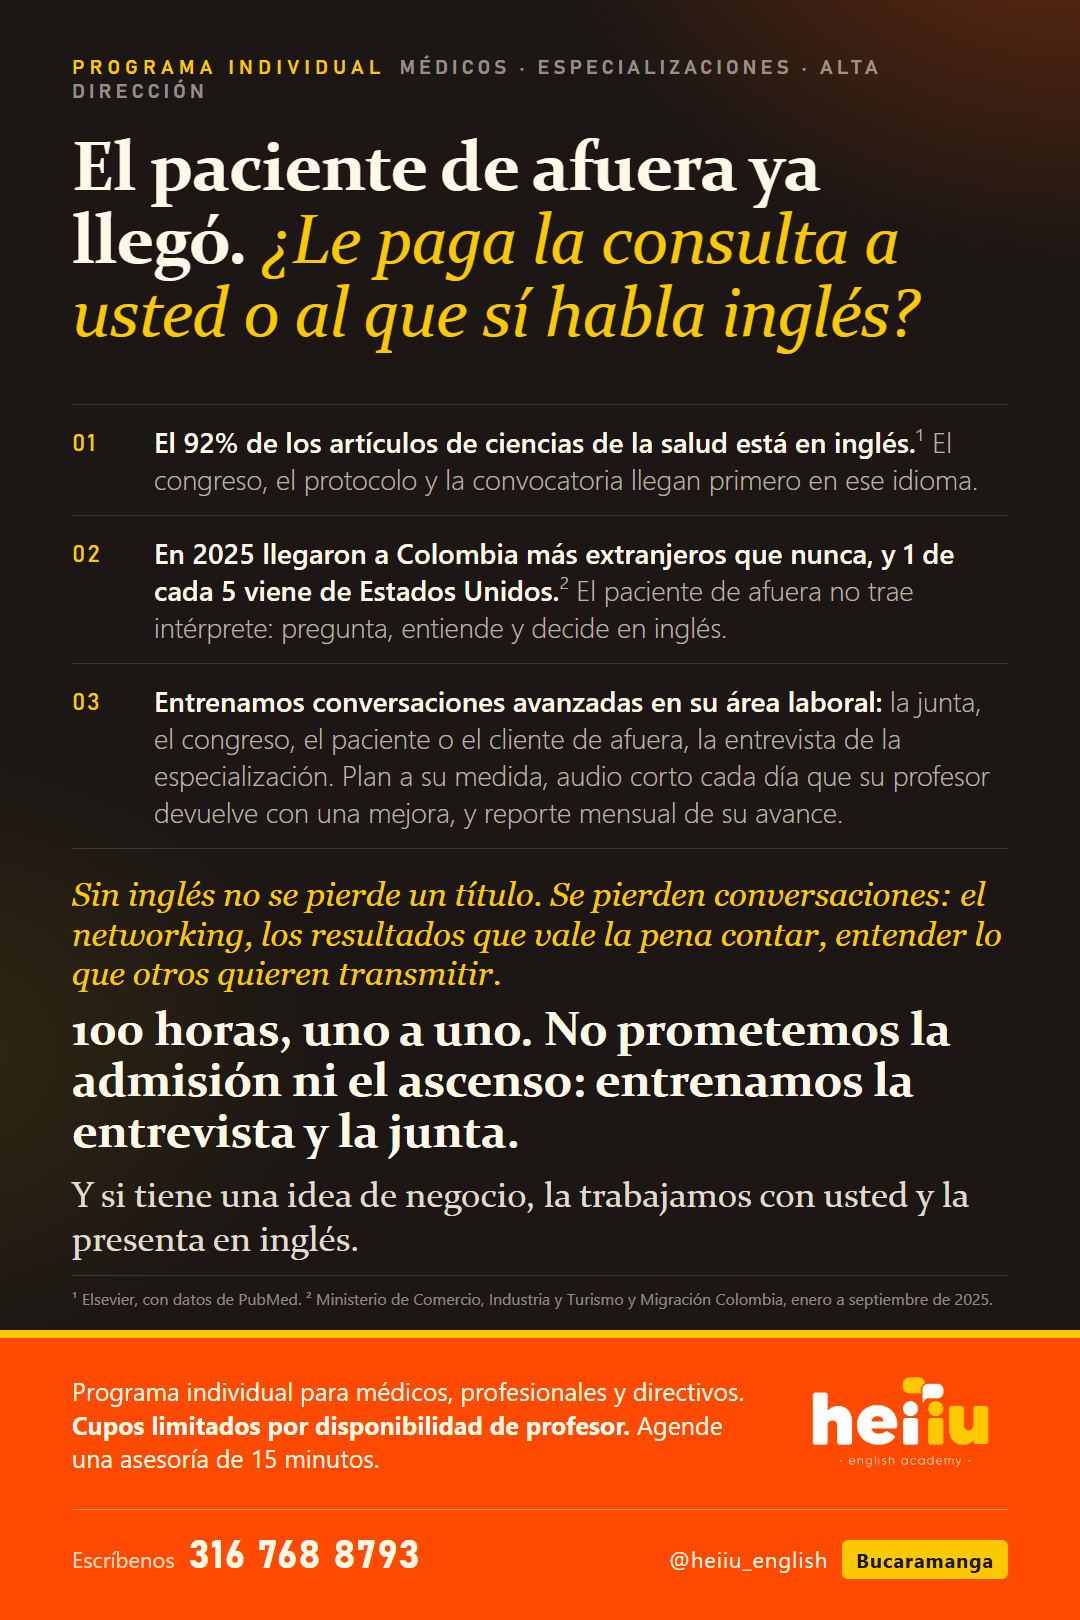
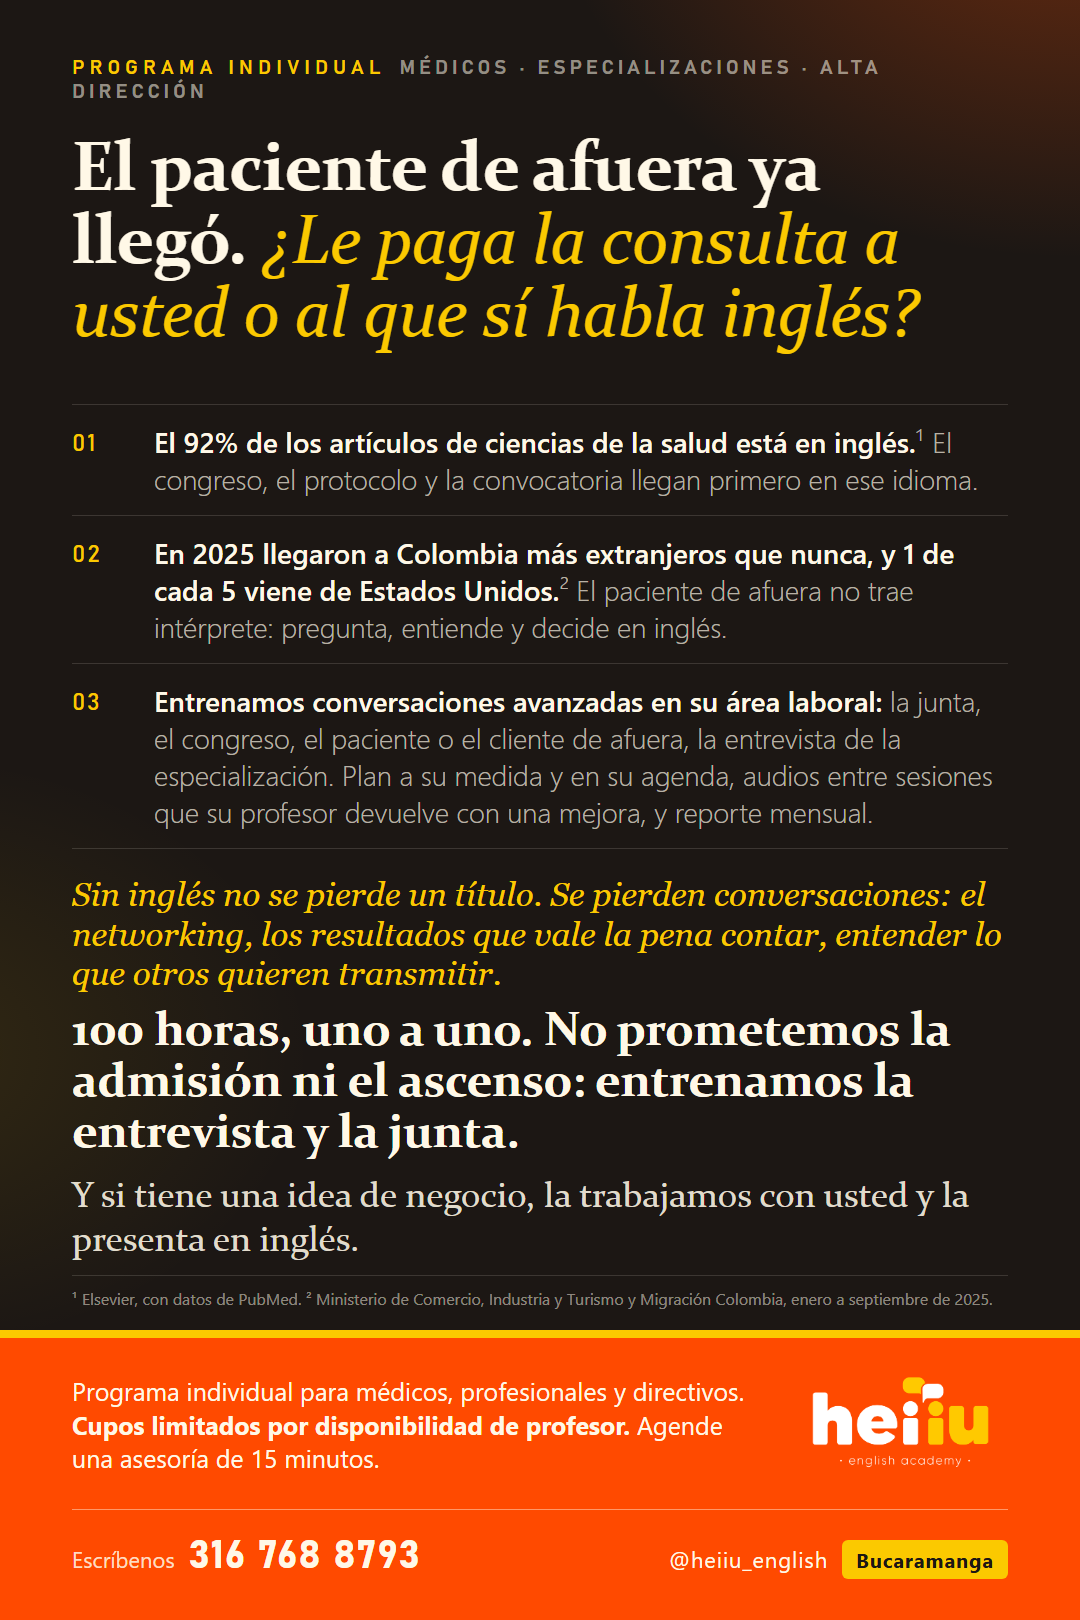
Piezas medicos: fuera el audio diario (programa individual vende flexibilidad); audios entre sesiones, el estudiante elige cuando

Changed region(s): [[0.1528, 0.463, 0.9167, 0.5247]]

diff --git a/generadores/comercial/gen_piezas_conciencia.py b/generadores/comercial/gen_piezas_conciencia.py
@@ -204,7 +204,7 @@ PIEZAS = {
         intro=('<b>Entrenamos conversaciones avanzadas en su área laboral.</b> Armamos el plan a su medida, para que la clase se enfoque en los temas de los que usted ya estaría hablando si hablara inglés: la junta, el congreso, el paciente o el cliente de afuera, '
                'la entrevista de la especialización. Usted fija los días y las horas cada semana. Antes de hablar de precios, le decimos cómo es:'),
         quote=('Nuestro objetivo es que salga hablando inglés en lo suyo. Esto es un entrenamiento, como prepararse para una maratón: desde el primer día habla, su profesor ve dónde puede mejorar y lo repetimos hasta que sale. '
-               'Por eso graba un audio corto cada día y su profesor se lo devuelve con una mejora. A cambio: <b>prueba de nivel al inicio y al final, y reporte mensual de su avance.</b> ¿Se le mide a ese ritmo?'),
+               'Entre una sesión y otra, un audio corto que su profesor le devuelve con una mejora; usted elige cuándo. A cambio: <b>prueba de nivel al inicio y al final, y reporte mensual de su avance.</b> ¿Se le mide?'),
         cite='GERENCIA · HEIIU ENGLISH ACADEMY',
         after='¿Suena exigente? Lo es, a propósito. <b>Con tres horas a la semana, el programa termina en unos ocho meses;</b> con más horas, antes. Usted decide el ritmo, no el calendario de un grupo.',
         st=[], lead='', big='', big2='',
@@ -295,7 +295,7 @@ PIEZAS = {
         h1='El paciente de afuera ya llegó. <em>¿Le paga la consulta a usted o al que sí habla inglés?</em>',
         st=[('<b>El 92% de los artículos de ciencias de la salud está en inglés.</b>¹ El congreso, el protocolo y la convocatoria llegan primero en ese idioma.'),
             ('<b>En 2025 llegaron a Colombia más extranjeros que nunca, y 1 de cada 5 viene de Estados Unidos.</b>² El paciente de afuera no trae intérprete: pregunta, entiende y decide en inglés.'),
-            ('<b>Entrenamos conversaciones avanzadas en su área laboral:</b> la junta, el congreso, el paciente o el cliente de afuera, la entrevista de la especialización. Plan a su medida, audio corto cada día que su profesor devuelve con una mejora, y reporte mensual de su avance.')],
+            ('<b>Entrenamos conversaciones avanzadas en su área laboral:</b> la junta, el congreso, el paciente o el cliente de afuera, la entrevista de la especialización. Plan a su medida y en su agenda, audios entre sesiones que su profesor devuelve con una mejora, y reporte mensual.')],
         lead='Sin inglés no se pierde un título. Se pierden conversaciones: el networking, los resultados que vale la pena contar, entender lo que otros quieren transmitir.',
         big='100 horas, uno a uno. No prometemos la admisión ni el ascenso: entrenamos la entrevista y la junta.',
         big2='Y si tiene una idea de negocio, la trabajamos con usted y la presenta en inglés.', fn='¹ Elsevier, con datos de PubMed. ² Ministerio de Comercio, Industria y Turismo y Migración Colombia, enero a septiembre de 2025.',
